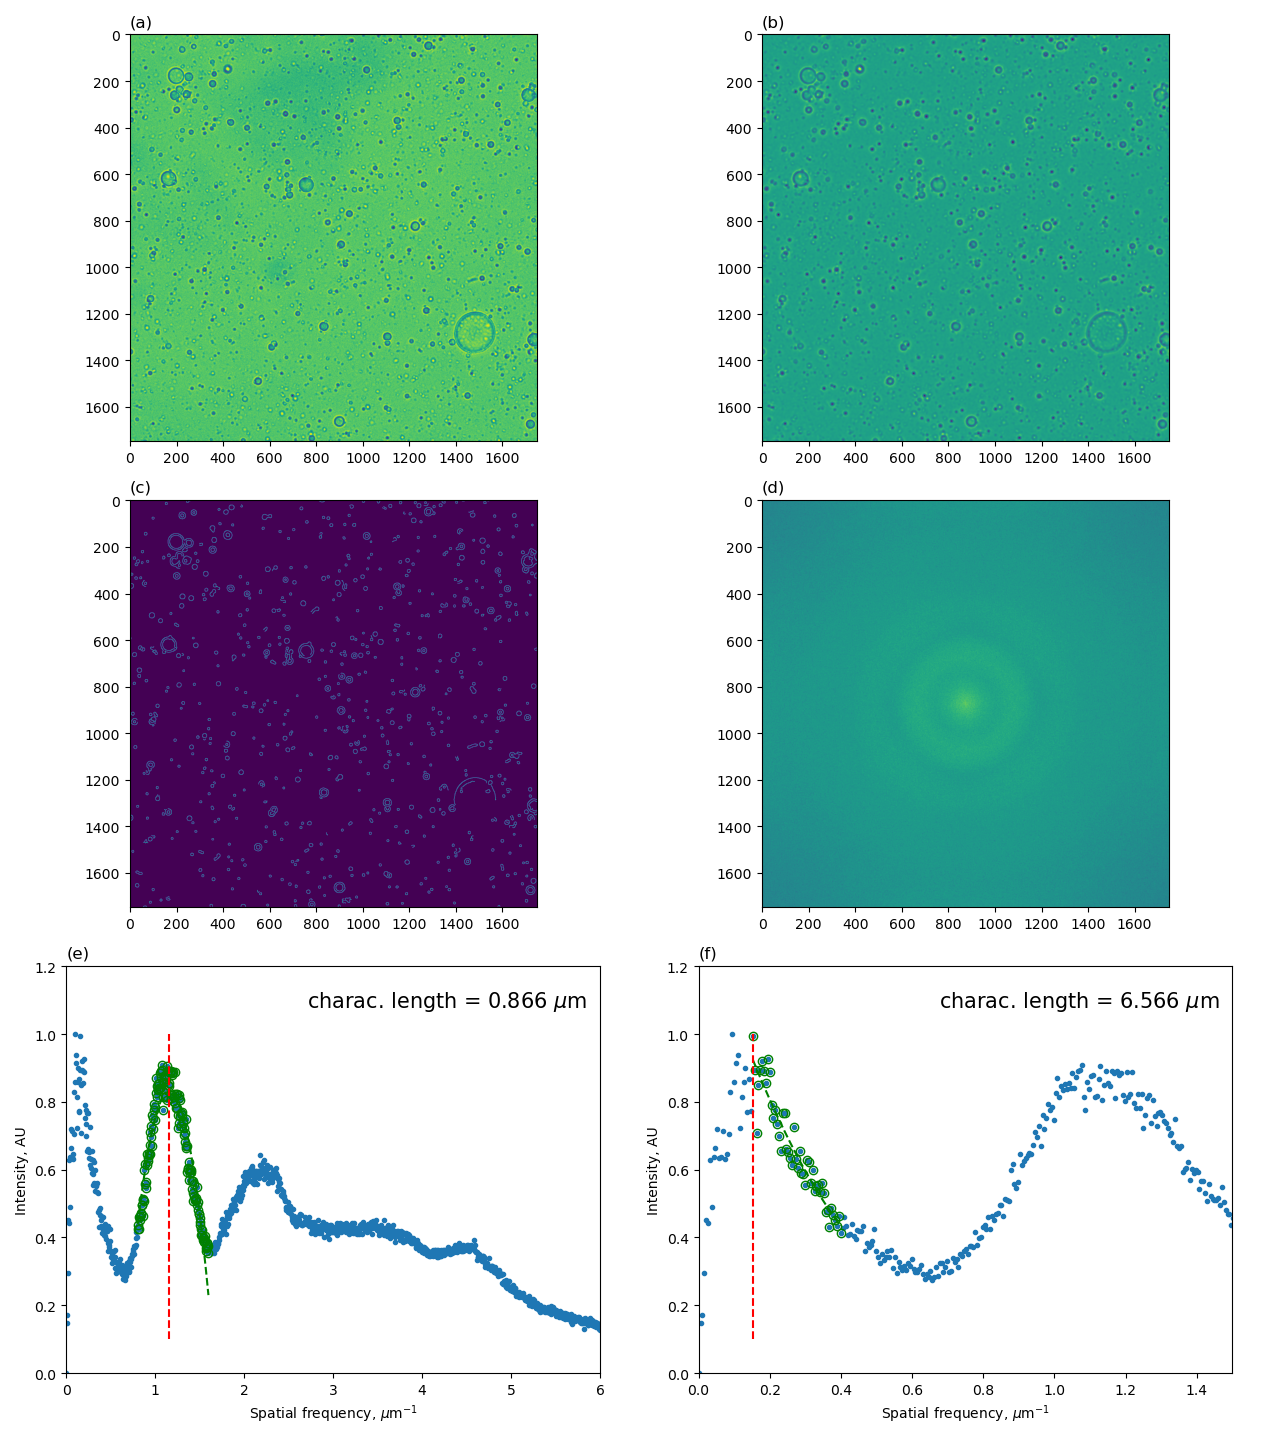
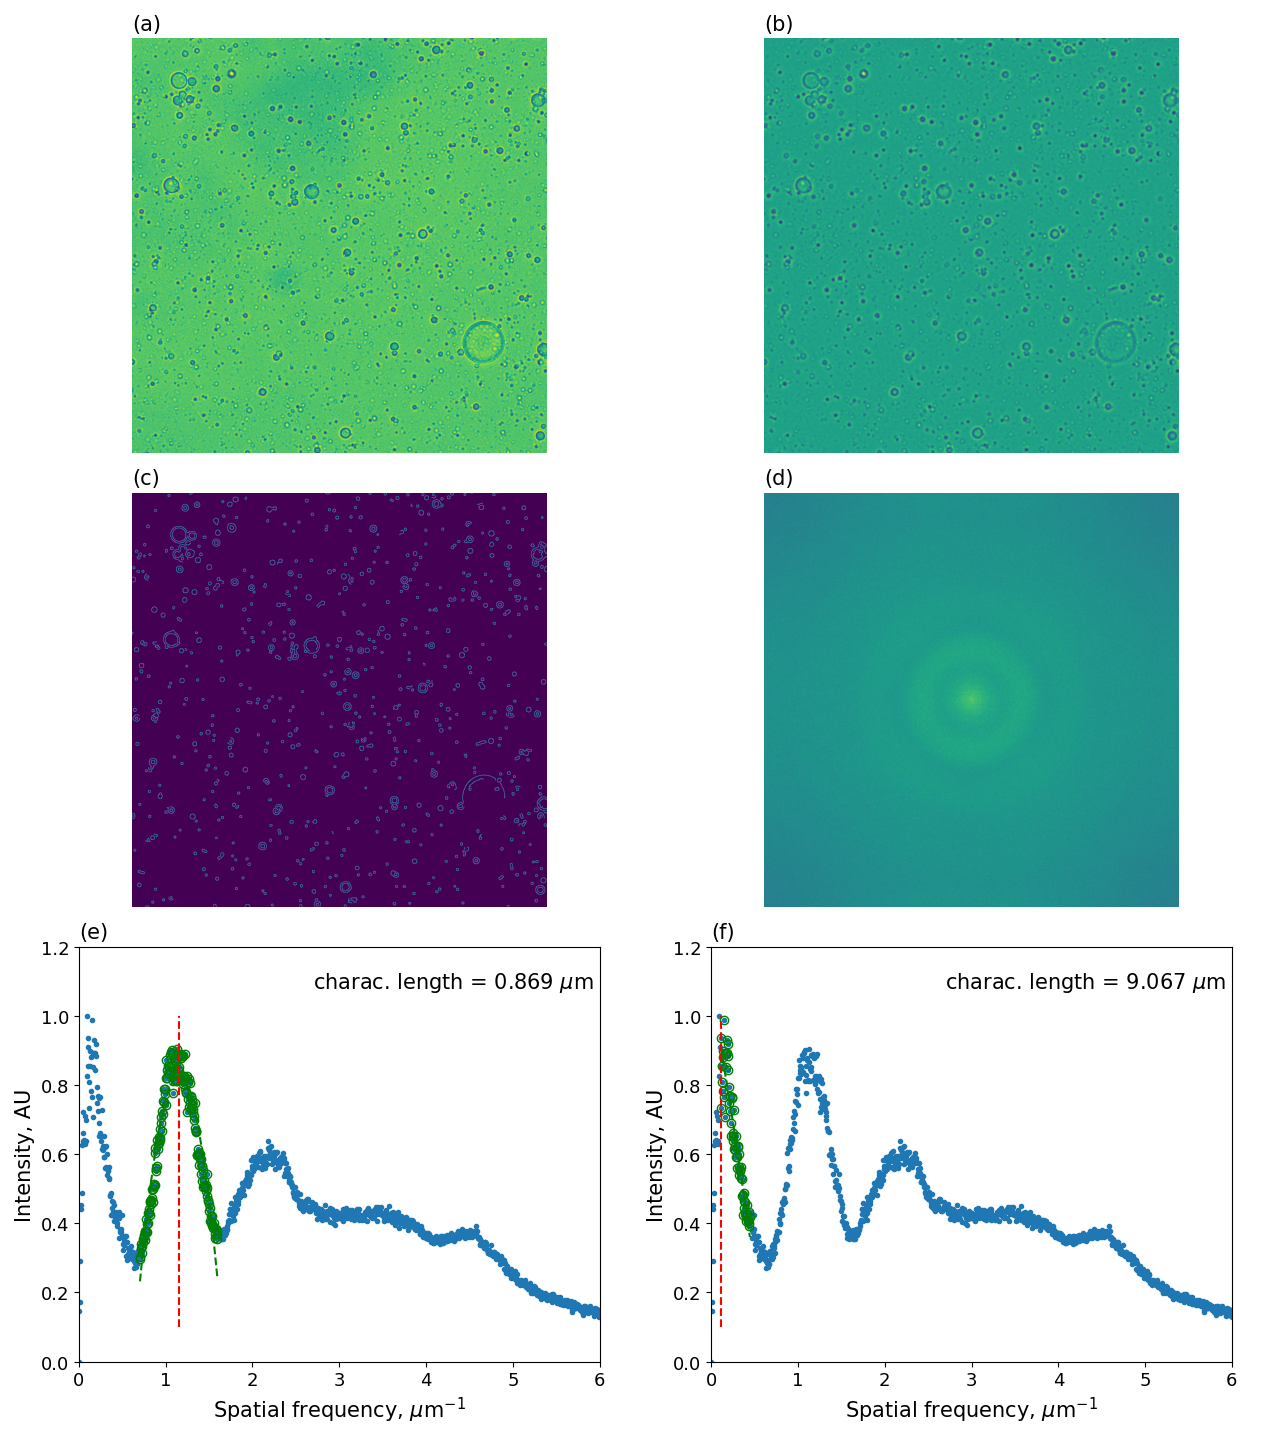
updated summary figure for cnc_emulsions_2

diff --git a/test_cases/experimental_surface_images/cnc_emulsion_bubbles/src/characteristic_length.py b/test_cases/experimental_surface_images/cnc_emulsion_bubbles/src/characteristic_length.py
@@ -185,81 +185,163 @@ LINEWIDTH = 3; ROLLWINDOW = 100                 # plot spec
 NROWS = 3; NCOLS = 2
 f, axs = plt.subplots(nrows=NROWS,ncols=NCOLS,
                       figsize=(NCOLS*FIGWIDTH,NROWS*FIGHEIGHT))
-axs[0,0].imshow(image_sq)
-axs[0,0].set_title("(a)", loc='left')
-# axs[0,0].set_title("Squared image")
+axs[0,0].imshow(image_sq) # squared image
+axs[0,0].set_title("(a)", loc='left', fontsize=TITLEFONT)
+axs[0,0].axis('off')
 
-axs[0,1].imshow(filtered_image_sq)
-axs[0,1].set_title("(b)", loc='left')
-# axs[0,1].set_title("Squared filtered image")
+axs[0,1].imshow(filtered_image_sq) # squared DofG filtered image
+axs[0,1].set_title("(b)", loc='left', fontsize=TITLEFONT)
+axs[0,1].axis('off')
 
-axs[1,0].imshow(filtered_edges_square)
-axs[1,0].set_title("(c)", loc='left')
-# axs[1,0].set_title("Squared Canny edge detected image")
+axs[1,0].imshow(filtered_edges_square) # squared Canny edge detected image
+axs[1,0].set_title("(c)", loc='left', fontsize=TITLEFONT)
+axs[1,0].axis('off')
 
-axs[1,1].imshow(np.log(psd2D))
-axs[1,1].set_title("(d)", loc='left')
-# axs[1,1].set_title("Center-shifted 2D Power Spectral Density")
+axs[1,1].imshow(np.log(psd2D)) # squared center-shifted 2D PSD
+axs[1,1].set_title("(d)", loc='left', fontsize=TITLEFONT)
+axs[1,1].axis('off')
 
 if int(POP_NUM == 2):
     axs[2,0].plot(1/lam[:rasp_length],rasp_norm_au,linestyle='none',marker='.')
     axs[2,0].plot(x_pop1,y_pop1,linestyle='none',marker='o',fillstyle='none',color='green')
     axs[2,0].plot(x_pop1,mdl_pop1,linestyle='--',color='green')
     axs[2,0].vlines(pop1_feature_size,ymin=0.1,ymax=1,linestyle='--',color='red')
-    axs[2,0].set_title("(e)", loc='left')
-    axs[2,0].set_ylabel("Intensity, AU")
-    axs[2,0].set_xlabel("Spatial frequency, $\mu$m$^{-1}$")
+    axs[2,0].set_title("(e)", loc='left', fontsize=TITLEFONT)
+    axs[2,0].set_ylabel("Intensity, AU", fontsize=TITLEFONT)
+    axs[2,0].set_xlabel("Spatial frequency, $\mu$m$^{-1}$", fontsize=TITLEFONT)
     axs[2,0].annotate('charac. length = ' + str(np.around(1/pop1_feature_size[0],decimals=3)) + ' $\mu$m',
                     xy=(0.45,0.9), xycoords='axes fraction', fontsize=TEXTFONT)
     axs[2,0].set_xlim([0,6])
     axs[2,0].set_ylim([0,1.2])
+    axs[2,0].tick_params(axis='both', which='major', labelsize=TICKSFONT)
 
     axs[2,1].plot(1/lam[:rasp_length],rasp_norm_au,linestyle='none',marker='.')
     axs[2,1].plot(x_pop2,y_pop2,linestyle='none',marker='o',fillstyle='none',color='green')
     axs[2,1].plot(x_pop2,mdl_pop2,linestyle='--',color='green')
     axs[2,1].vlines(pop2_feature_size,ymin=0.1,ymax=1,linestyle='--',color='red')
-    axs[2,1].set_title("(f)", loc='left')
-    axs[2,1].set_ylabel("Intensity, AU")
-    axs[2,1].set_xlabel("Spatial frequency, $\mu$m$^{-1}$")
+    axs[2,1].set_title("(f)", loc='left', fontsize=TITLEFONT)
+    axs[2,1].set_ylabel("Intensity, AU", fontsize=TITLEFONT)
+    axs[2,1].set_xlabel("Spatial frequency, $\mu$m$^{-1}$", fontsize=TITLEFONT)
     axs[2,1].annotate('charac. length = ' + str(np.around(1/pop2_feature_size[0],decimals=3)) + ' $\mu$m',
                     xy=(0.45,0.9), xycoords='axes fraction', fontsize=TEXTFONT)
-    axs[2,1].set_xlim([0,1.5])
+    axs[2,1].set_xlim([0,6])
     axs[2,1].set_ylim([0,1.2])
+    axs[2,1].tick_params(axis='both', which='major', labelsize=TICKSFONT)
 else:
     axs[2,0].plot(1/lam[:rasp_length],rasp_norm_au,linestyle='none',marker='.')
     axs[2,0].plot(x_pop1,y_pop1,linestyle='none',marker='o',fillstyle='none',color='green')
     axs[2,0].plot(x_pop1,mdl_pop1,linestyle='--',color='green')
     axs[2,0].vlines(pop1_feature_size,ymin=0.1,ymax=1,linestyle='--',color='red')
-    axs[2,0].set_title("(e)", loc='left')
-    axs[2,0].set_ylabel("Intensity, AU")
-    axs[2,0].set_xlabel("Spatial frequency, $\mu$m$^{-1}$")
+    axs[2,0].set_title("(e)", loc='left', fontsize=TITLEFONT)
+    axs[2,0].set_ylabel("Intensity, AU", fontsize=TITLEFONT)
+    axs[2,0].set_xlabel("Spatial frequency, $\mu$m$^{-1}$", fontsize=TITLEFONT)
     axs[2,0].annotate('charac. length = ' + str(np.around(1/pop1_feature_size[0],decimals=3)) + ' $\mu$m',
                     xy=(0.45,0.9), xycoords='axes fraction', fontsize=TEXTFONT)
     axs[2,0].set_xlim([0,6])
     axs[2,0].set_ylim([0,1.2])
+    axs[2,0].tick_params(axis='both', which='major', labelsize=TICKSFONT)
     
     axs[2,1].axis('off')
     
 f.tight_layout()
 f.savefig("figures/" + file_name + "_summary.png")
 
-# Filtered image
-# NROWS = 1; NCOLS = 1
-# f, axs = plt.subplots(nrows=NROWS,ncols=NCOLS,
-#                       figsize=(NCOLS*FIGWIDTH,NROWS*FIGHEIGHT))
+# image analysis figure
+NROWS = 2; NCOLS = 2
+f, axs = plt.subplots(nrows=NROWS,ncols=NCOLS,
+                      figsize=(NCOLS*FIGWIDTH,NROWS*FIGHEIGHT))
+axs[0,0].imshow(image_sq)
+axs[0,0].set_title("(a)", loc='left', fontsize=TITLEFONT)
+axs[0,0].axis('off')
+# axs[0,0].set_ylabel("Pixels", fontsize=TEXTFONT)
+# axs[0,0].set_xlabel("Pixels", fontsize=TEXTFONT)
+# axs[0,0].set_title("Squared image")
 
-# axs.imshow(filtered_image_sq)
+axs[0,1].imshow(filtered_image_sq)
+axs[0,1].set_title("(b)", loc='left', fontsize=TITLEFONT)
+axs[0,1].axis('off')
+# axs[0,1].set_ylabel("Pixels", fontsize=TEXTFONT)
+# axs[0,1].set_xlabel("Pixels", fontsize=TEXTFONT)
+# axs[0,1].set_title("Squared filtered image")
 
-# f.tight_layout()
-# f.savefig("figures/" + file_name + "_filtered.png")
+axs[1,0].imshow(filtered_edges_square)
+axs[1,0].set_title("(c)", loc='left', fontsize=TITLEFONT)
+axs[1,0].axis('off')
+# axs[1,0].set_ylabel("Pixels", fontsize=TEXTFONT)
+# axs[1,0].set_xlabel("Pixels", fontsize=TEXTFONT)
+# axs[1,0].set_title("Squared Canny edge detected image")
 
-# # Filtered edges
-# NROWS = 1; NCOLS = 1
-# f, axs = plt.subplots(nrows=NROWS,ncols=NCOLS,
-#                       figsize=(NCOLS*FIGWIDTH,NROWS*FIGHEIGHT))
+axs[1,1].imshow(np.log(psd2D))
+axs[1,1].set_title("(d)", loc='left', fontsize=TITLEFONT)
+axs[1,1].axis('off')
+# axs[1,1].set_ylabel("Pixels", fontsize=TEXTFONT)
+# axs[1,1].set_xlabel("Pixels", fontsize=TEXTFONT)
+# axs[1,1].set_title("Center-shifted 2D Power Spectral Density")
+    
+f.tight_layout()
+f.savefig("figures/" + file_name + "_image_analysis.png")
 
-# axs.imshow(filtered_edges_square)
 
-# f.tight_layout()
-# f.savefig("figures/" + file_name + "_filtered_edges.png")
+if int(POP_NUM == 2):
+    # population 1 figure
+    NROWS = 1; NCOLS = 1
+    f, axs = plt.subplots(nrows=NROWS,ncols=NCOLS,
+                        figsize=(NCOLS*FIGWIDTH,NROWS*FIGHEIGHT))
 
+    axs.plot(1/lam[:rasp_length],rasp_norm_au,linestyle='none',marker='.')
+    axs.plot(x_pop1,y_pop1,linestyle='none',marker='o',fillstyle='none',color='green')
+    axs.plot(x_pop1,mdl_pop1,linestyle='--',color='green')
+    axs.vlines(pop1_feature_size,ymin=0.1,ymax=1,linestyle='--',color='red')
+    axs.set_title("(e)", loc='left', fontsize=TITLEFONT)
+    axs.set_ylabel("Intensity, AU", fontsize=TITLEFONT)
+    axs.set_xlabel("Spatial frequency, $\mu$m$^{-1}$", fontsize=TITLEFONT)
+    axs.annotate('charac. length = ' + str(np.around(1/pop1_feature_size[0],decimals=3)) + ' $\mu$m',
+                    xy=(0.45,0.9), xycoords='axes fraction', fontsize=TEXTFONT)
+    axs.set_xlim([0,6])
+    axs.set_ylim([0,1.2])
+    
+    f.tight_layout()
+    f.savefig("figures/" + file_name + "_pop1_rasp.png")
+    
+    # population 2 figure
+    NROWS = 1; NCOLS = 1
+    f, axs = plt.subplots(nrows=NROWS,ncols=NCOLS,
+                        figsize=(NCOLS*FIGWIDTH,NROWS*FIGHEIGHT))
+
+    axs.plot(1/lam[:rasp_length],rasp_norm_au,linestyle='none',marker='.')
+    axs.plot(x_pop2,y_pop2,linestyle='none',marker='o',fillstyle='none',color='green')
+    axs.plot(x_pop2,mdl_pop2,linestyle='--',color='green')
+    axs.vlines(pop2_feature_size,ymin=0.1,ymax=1,linestyle='--',color='red')
+    axs.set_title("(f)", loc='left', fontsize=TITLEFONT)
+    axs.set_ylabel("Intensity, AU", fontsize=TITLEFONT)
+    axs.set_xlabel("Spatial frequency, $\mu$m$^{-1}$", fontsize=TITLEFONT)
+    axs.annotate('charac. length = ' + str(np.around(1/pop2_feature_size[0],decimals=3)) + ' $\mu$m',
+                    xy=(0.45,0.9), xycoords='axes fraction', fontsize=TEXTFONT)
+    axs.set_xlim([0,6])
+    axs.set_ylim([0,1.2])
+    
+    f.tight_layout()
+    f.savefig("figures/" + file_name + "_pop2_rasp.png")
+    
+else:
+    
+    # summary figure
+    NROWS = 1; NCOLS = 1
+    f, axs = plt.subplots(nrows=NROWS,ncols=NCOLS,
+                        figsize=(NCOLS*FIGWIDTH,NROWS*FIGHEIGHT))
+    
+    axs.plot(1/lam[:rasp_length],rasp_norm_au,linestyle='none',marker='.')
+    axs.plot(x_pop1,y_pop1,linestyle='none',marker='o',fillstyle='none',color='green')
+    axs.plot(x_pop1,mdl_pop1,linestyle='--',color='green')
+    axs.vlines(pop1_feature_size,ymin=0.1,ymax=1,linestyle='--',color='red')
+    axs.set_title("(e)", loc='left', fontsize=TITLEFONT)
+    axs.set_ylabel("Intensity, AU", fontsize=TITLEFONT)
+    axs.set_xlabel("Spatial frequency, $\mu$m$^{-1}$", fontsize=TITLEFONT)
+    axs.annotate('charac. length = ' + str(np.around(1/pop1_feature_size[0],decimals=3)) + ' $\mu$m',
+                    xy=(0.45,0.9), xycoords='axes fraction', fontsize=TEXTFONT)
+    axs.set_xlim([0,6])
+    axs.set_ylim([0,1.2])
+    axs.tick_params(axis='both', which='major', labelsize=TICKSFONT)
+    
+    f.tight_layout()
+    f.savefig("figures/" + file_name + "_pop1_rasp.png")
